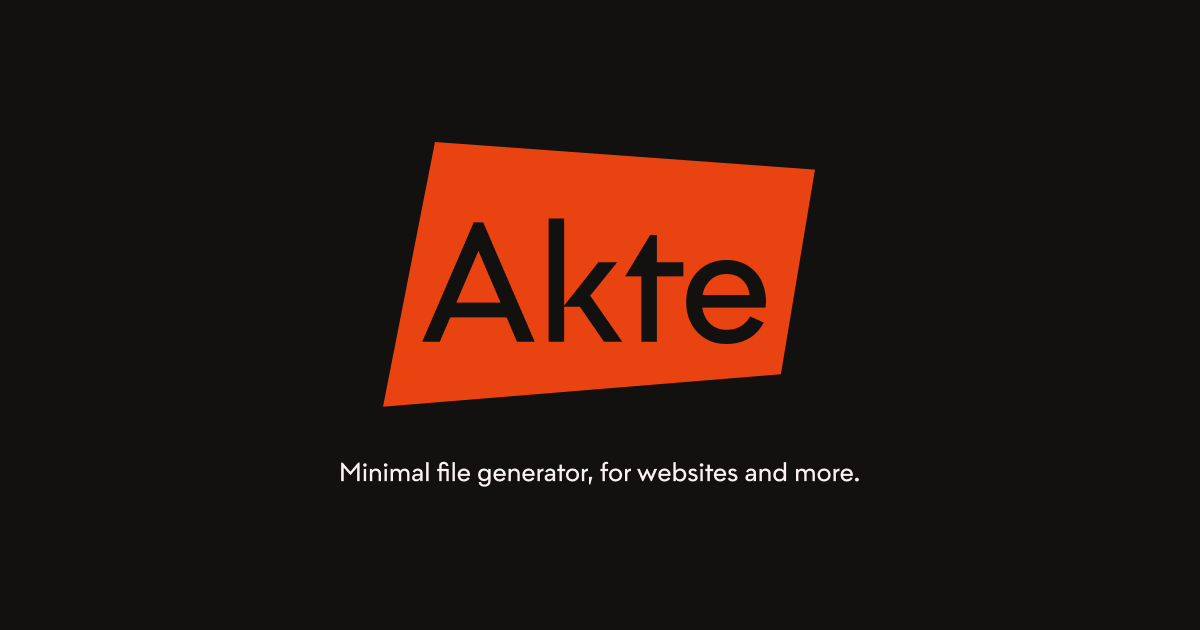
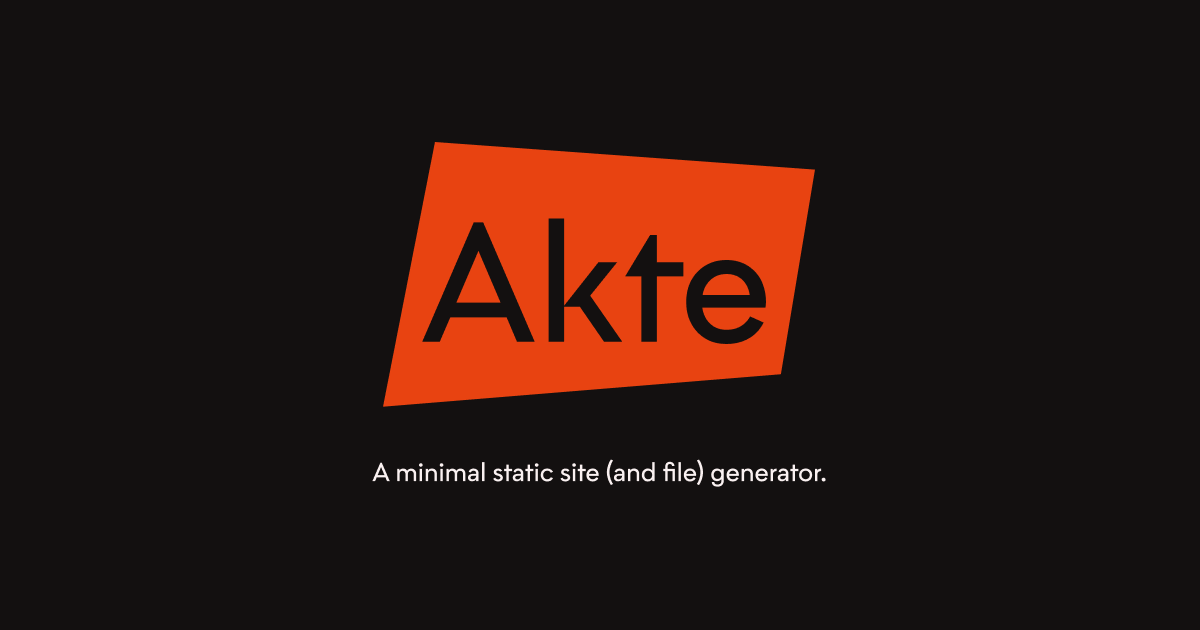
docs: refine copy for clarity

Changed region(s): [[0.2775, 0.7238, 0.7092, 0.7841]]

diff --git a/docs/layouts/base.ts b/docs/layouts/base.ts
@@ -8,7 +8,7 @@ export const base = (
 	const docURL = "https://akte.js.org";
 	const title = args.title ? `Akte - ${args.title}` : "Akte";
 	const description =
-		"A minimal file generator, for websites and more. Akte's minimal API allows it to be portable and to run in various environments, from CIs, to serverless.";
+		"Akte is a minimal file generator to make websites with an integrated data cascade. It integrates with Vite, has serverless capabilities, and is all nicely typed~";
 
 	return /* html */ `<!doctype html>
 <html lang="en">

diff --git a/docs/content/index.md b/docs/content/index.md
@@ -1,5 +1,5 @@
 ---
-title: Minimal file generator, for websites and more
+title: A minimal static site (and file) generator
 toc: false
 ---
 
@@ -9,7 +9,7 @@ toc: false
 Akte is in active development, it's usable (this website is built with Akte), however, consider pinning the patch version before using.
 :::
 
-A minimal file generator, for websites and more.
+A minimal static site (and file) generator.
 
 <div style="margin:4rem 0;display:flex;justify-content:center;gap:1rem;">
 	<a class="button" href="/get-started">Get started ›</a>
@@ -18,10 +18,10 @@ A minimal file generator, for websites and more.
 
 ## Overview
 
-Akte offers a lightweight API to generate files that is portable and capable to run in various environments.
+Akte offers a lightweight API to generate files (e.g. `/about`, `/sitemap.xml`, `/post/:slug`, etc.) that is portable and capable to run in various environments.
 
 :::callout{icon=🚕 title="Minimal and flexible"}
-Akte template literals-based rendering lets you perform any kind of string manipulation.
+Akte template literals-based rendering lets you perform any kind of string manipulation when rendering files.
 :::
 
 :::callout{icon=⚡ title="Vite integration"}

diff --git a/README.md b/README.md
@@ -16,7 +16,7 @@
 > **Warning**
 > Akte is in active development, it's usable, however, consider pinning the patch version before using.
 
-Minimal file generator, for websites and more.
+A minimal static site (and file) generator.
 
 - 🚕 &nbsp;Minimal and flexible;
 - ⚡ &nbsp;Vite integration;
